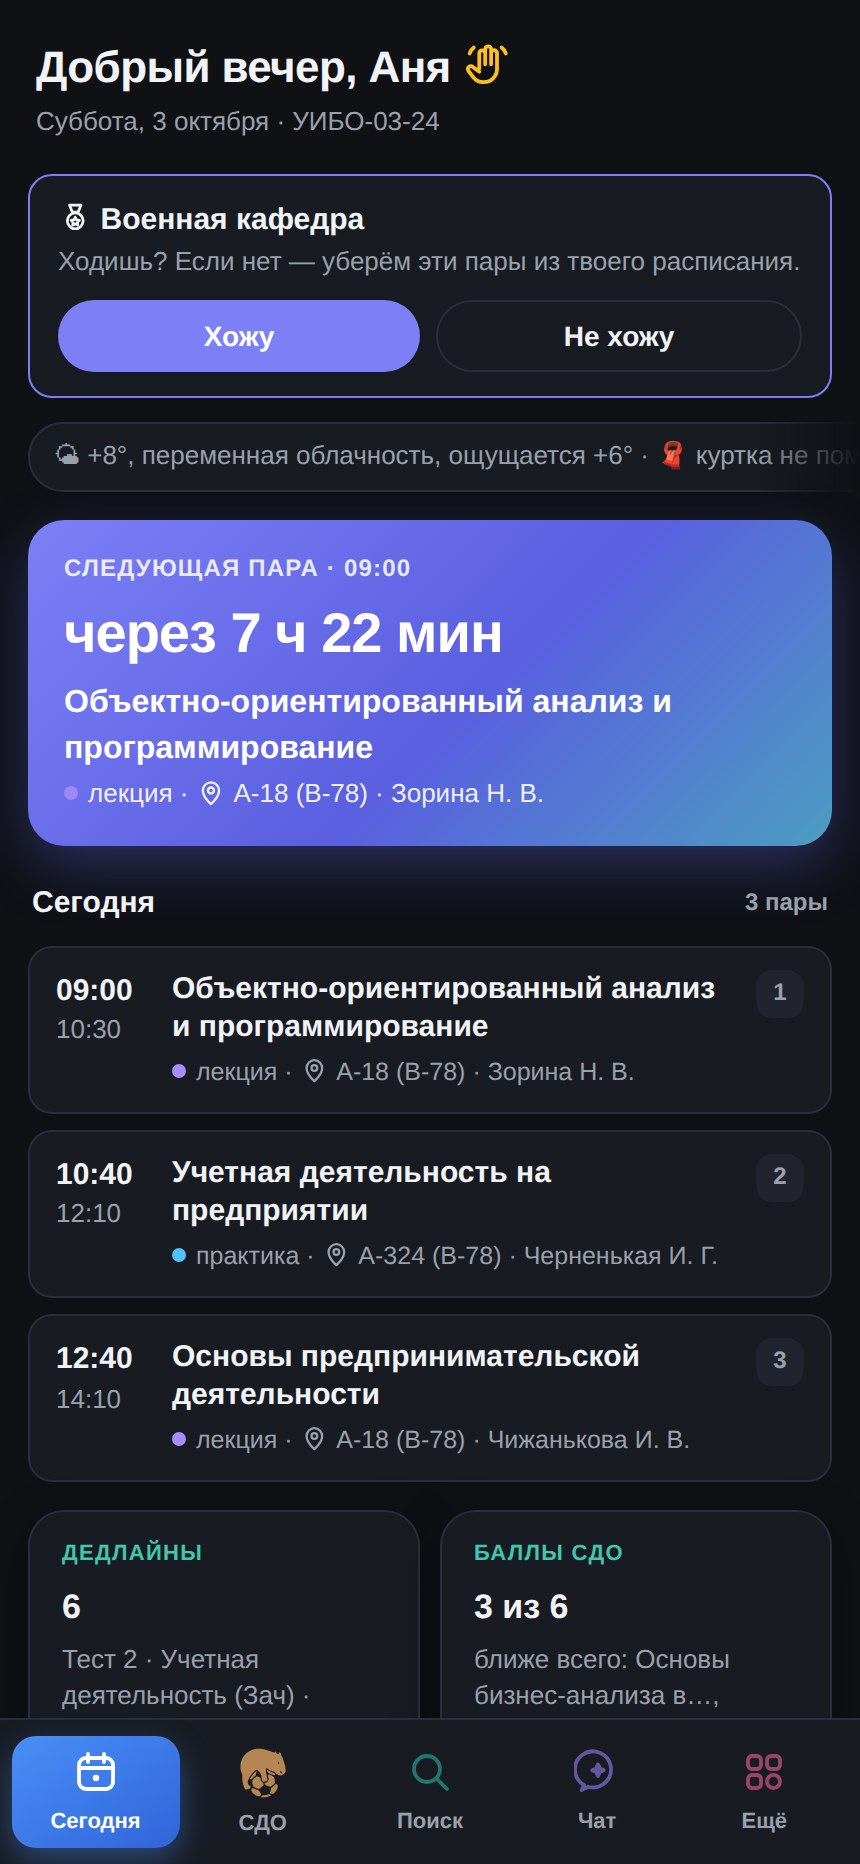
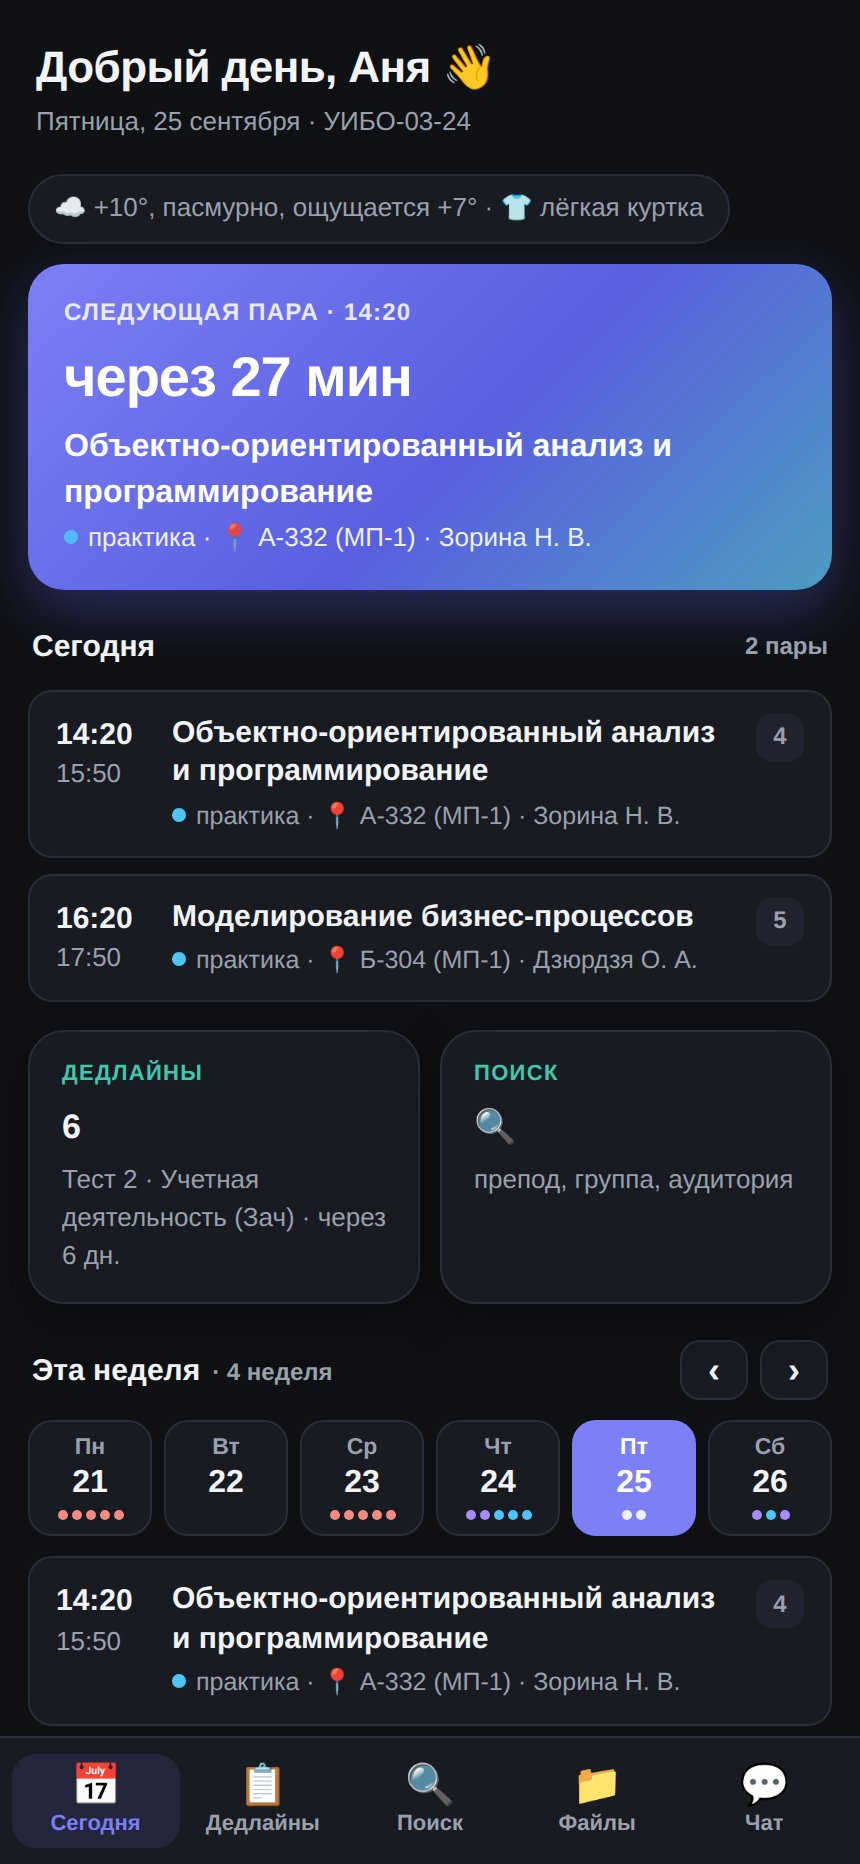
v5.10.1 «Титан»: скрины постов канала 5–8 — из кода тех дней, со старыми вкладками

diff --git a/channel/posts/08-sdo/post.html b/channel/posts/08-sdo/post.html
@@ -48,4 +48,6 @@ Telegram → задание → ИИ
 <blockquote expandable><b>Понятные названия</b>
 Файлы и дедлайны в СДО называются так, что чёрт ногу сломит, хоть и по-русски. Бот приводит их в порядок: «Практическая работа №2 - срок сдачи (Анализ данных_Экзамен (часть 1/1) [I.26-27])» превращается в «Практика 2 · Анализ данных (Экз)».</blockquote>
 
+На скринах — вкладка «СДО» и экран задания в первой версии (2 октября, до дизайн-ревью) и свежий лист «Сдать» с типами файлов.
+
 Дальше — как чат стал входом в приложение 👇

diff --git a/channel/posts/05-ai/post.html b/channel/posts/05-ai/post.html
@@ -45,4 +45,6 @@ answer = await gemini(
 
 <i>Группа это ещё толком не видела: анонс в общем чате — в понедельник. Так что этот канал вы читаете раньше всех 😉</i>
 
+На скрине — чат с ИИ в мини-приложении конца сентября, восстановленный из кода тех дней: внизу ещё старые вкладки.
+
 Дальше — мини-приложение 👇

diff --git a/channel/posts/07-search/post.html b/channel/posts/07-search/post.html
@@ -71,4 +71,6 @@ ORDER BY title_lc LIKE 'морозов%'
 
 <blockquote>Самый большой восторг за весь проект. Решение, которое я не побоюсь назвать гениальным.</blockquote>
 
+На скринах — поиск и расписание группы в версии конца сентября, восстановленной из кода тех дней.
+
 Дальше — СДО прямо в кармане 👇

diff --git a/PLAN.md b/PLAN.md
@@ -1,6 +1,6 @@
 # План развития УИБО-БОТ
 
-## Где мы сейчас (4 октября 2026, v5.10.0)
+## Где мы сейчас (4 октября 2026, v5.10.1)
 
 Этапы 1 и 2 смержены и задеплоены (#78–#89; дизайн-ревью —
 `docs/design-review.md`, 11 и 13 владелец оставил как есть). #90 (v5.8.0) —
@@ -21,7 +21,8 @@ Telegram Web по QR сделан (Chromium с доверием к CA прокс
 контакт — @Partykq. Ждём: `CHANNEL_URL`/`CONTACT_URL` в Railway, мерж
 #90 → #91 → #92 смержены, канал запущен, часть серии вышла (3–4 октября).
 Длинный пост с картинкой выходил двумя сообщениями — новый PR: пост одним
-сообщением с обложкой над текстом, `/channel redo` — перевыпустить; объявление в
+сообщением с обложкой над текстом, `/channel redo` — перевыпустить (#93,
+смержен); скрины постов 5–8 заменены на версии тех дней (новый PR); объявление в
 чате группы — в понедельник; скрины старых
 версий — восстанавливаем из истории git (весной: 24–25 апреля, README 4 мая).
 Ссылки «Канал бота» / «Написать нам» — переменные `CHANNEL_URL` и
